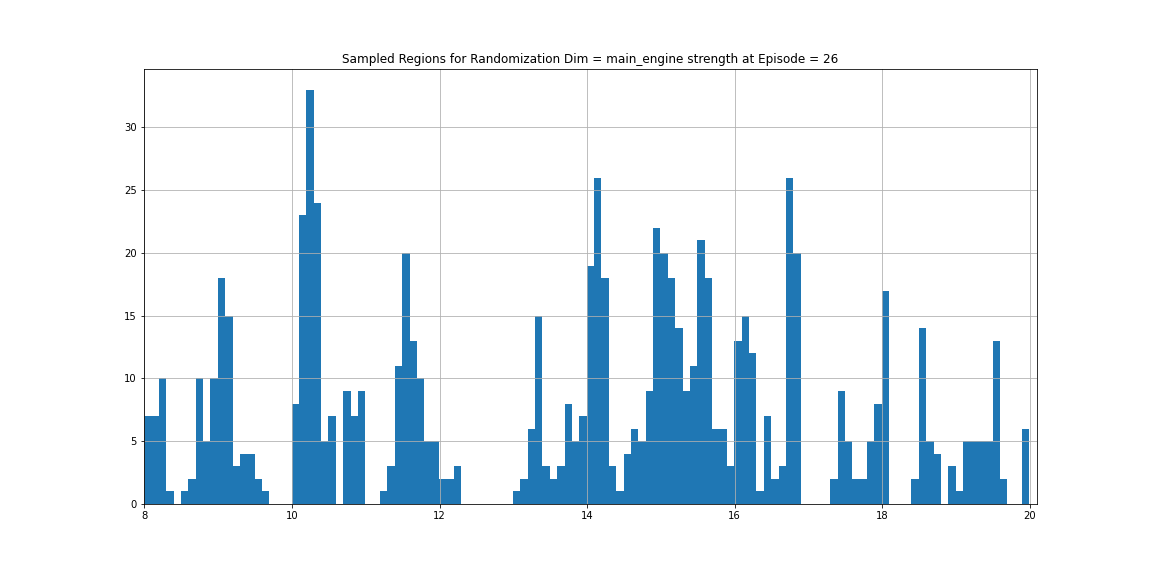
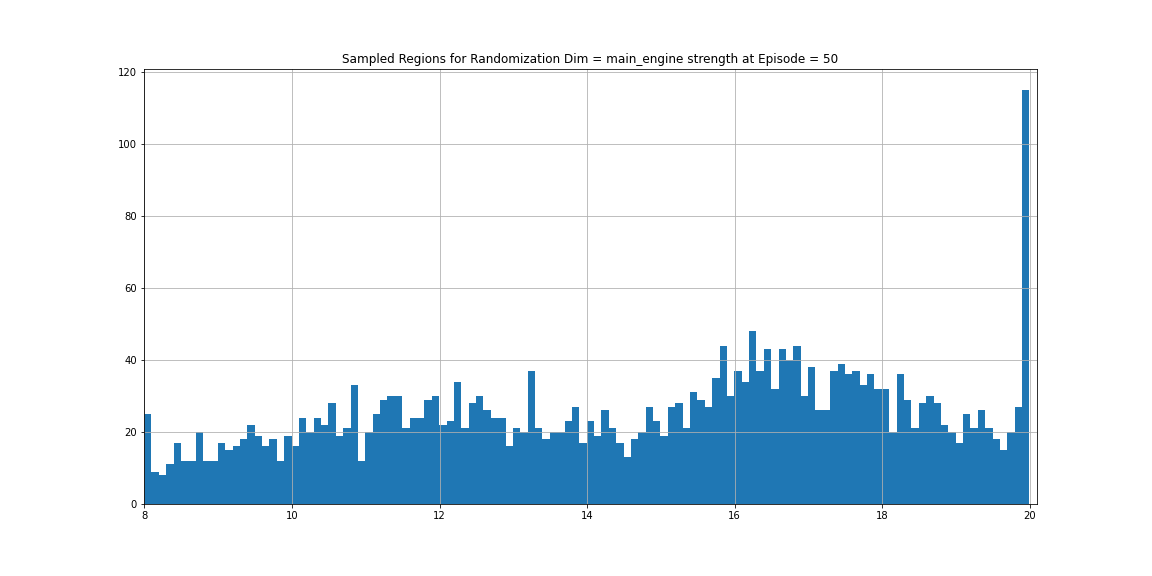
update svpg plots

Changed region(s): [[0.125, 0.1562, 0.9062, 0.875], [0.0938, 0.2188, 0.125, 0.25]]

diff --git a/code/algorithms/svpg/ddpg_dr.py b/code/algorithms/svpg/ddpg_dr.py
@@ -190,10 +190,12 @@ class DDPG(object):
             #step
             next_params = current_sim_params + action
             if xp_type=="peak":
-                reward = 1. if next_params <= 0.6 and next_params >= 0.4 else -10. #1./(np.abs(0.5-next_params)+1e-8)
+                reward = 1. if next_params <= 0.6 and next_params >= 0.4 else -10.
+                # reward = 1./(np.abs(0.5-next_params)+1e-8)
             elif xp_type=="valley":
                 reward = -10. if next_params <= 0.6 and next_params >= 0.4 else 1.
-            done=True if next_params < 0 or next_params > 1 else False
+                # reward = -1./(np.abs(0.5-next_params)+1e-8)
+            done=True if next_params < 0. or next_params > 1. else False
             # next_params = np.clip(next_params,0,1)
             done_bool = 0 if self.timesteps + 1 == self.H_svpg else float(done)
             
@@ -259,11 +261,11 @@ if __name__ == '__main__':
     
     lr_svpg=0.003 #0.0003
     gamma_svpg=0.99
-    h1=100 #100 #hidden sizes
-    h2=64
-    T_svpg=10 #50 #ddpg rollout length
-    delta_max = 0.005 #0.05 #maximum allowable change to svpg states (i.e. upper bound on the svpg action)
-    H_svpg = 25 #50 #ddpg rollout horizon
+    h1=32 #100 #100 #hidden sizes
+    h2=32 #64
+    T_svpg=20 #10 #50 #ddpg rollout length
+    delta_max = 0.05 #0.005 #0.05 #maximum allowable change to svpg states (i.e. upper bound on the svpg action)
+    H_svpg = 100 #25 #50 #ddpg rollout horizon
     batch_size=100 #for batch used for ddpg training 
     epochs=50
     xp_types=["peak","valley"] #experiment types
@@ -287,7 +289,7 @@ if __name__ == '__main__':
     plot_tr_rewards_mean=[]
     sampled_regions = [[] for _ in range(dr)]
     rand_step=0.1 #for discretizing the sampled regions plot
-    common_name="_svpg_dr"
+    common_name="_ddpg_dr"
     t_eps=0
     
     with tqdm.tqdm(total=T_eps) as pbar:
@@ -301,8 +303,10 @@ if __name__ == '__main__':
             rewards = np.ones_like(simulation_instances_mask,dtype=np.float32)
             if xp_type =="peak":
                 rewards[((simulation_instances_mask<=0.40).astype(int) + (simulation_instances_mask>=0.60).astype(int)).astype(bool)]=-10.
+                # rewards *= 1./(np.abs(0.5-simulation_instances_mask)+1e-8)
             elif xp_type=="valley":
                 rewards[((simulation_instances_mask>=0.40).astype(int) * (simulation_instances_mask<=0.60).astype(int)).astype(bool)]=-10.
+                # rewards *= - 1./(np.abs(0.5-simulation_instances_mask)+1e-8)
                 
             rewards = rewards * rewards_scale
                 
@@ -318,17 +322,30 @@ if __name__ == '__main__':
                 low=env.unwrapped.dimensions[dim].range_min
                 high=env.unwrapped.dimensions[dim].range_max
                 x=np.arange(low,high+rand_step,rand_step)
+                linspace_x=np.arange(min(x),max(x)+2*rand_step,rand_step)
                 
-                scaled_instances=low + (high-low) * simulation_instances[:,dim]
+                scaled_instances=low + (high-low) * simulation_instances[:, dim]
                 sampled_regions[dim]=np.concatenate([sampled_regions[dim],scaled_instances.flatten()])
                   
                 title=f"Sampled Regions for Randomization Dim = {dim_name} {env.rand} at Episode = {t_eps}"
                 plt.figure(figsize=(16,8))
                 plt.grid(1)
-                plt.hist(sampled_regions[dim], np.arange(min(x),max(x)+2*rand_step,rand_step), histtype='barstacked')
+                plt.hist(sampled_regions[dim], linspace_x, histtype='barstacked')
                 plt.xlim(min(x), max(x)+rand_step)
                 plt.title(title)
                 plt.savefig(f'plots/sampled_regions_dim_{dim_name}_{env.rand}{common_name}.png')
+                plt.close()
+                
+                title=f"Value Function for Randomization Dim = {dim_name} {env.rand} at Episode = {t_eps}"
+                plt.figure(figsize=(16,8))
+                plt.grid(1)
+                ls=np.linspace(0,1,len(linspace_x))
+                a=svpg.actor(torch.from_numpy(ls).unsqueeze(1).float().to(device))
+                v=svpg.critic(torch.from_numpy(ls).unsqueeze(1).float().to(device),a)
+                plt.plot(linspace_x,v.detach().cpu().numpy())
+                plt.xlim(min(x), max(x)+rand_step)
+                plt.title(title)
+                plt.savefig(f'plots/value_function_dim_{dim_name}_{env.rand}{common_name}.png')
                 plt.close()
             
             #log episode results

diff --git a/code/algorithms/svpg/svpg_dr.py b/code/algorithms/svpg/svpg_dr.py
@@ -119,7 +119,7 @@ class SVPGParticleActor(nn.Module):
         
         std=torch.exp(self.logstd) + 1e-6
                 
-        return torch.distributions.Independent(torch.distributions.Normal(mean,std),1) #torch.distributions.Normal(mean, std)
+        return torch.distributions.Normal(mean, std) #torch.distributions.Independent(torch.distributions.Normal(mean,std),1) #torch.distributions.Normal(mean, std)
 
 
 class SVPGParticle(nn.Module):
@@ -324,14 +324,14 @@ if __name__ == '__main__':
     temp=10. #temperature
     lr_svpg=0.003 #0.0003
     gamma_svpg=0.99
-    h_svpg=64 #100
+    h_svpg=32 #64 #100
     svpg_modes=[1,2,3] #how to calculate kernel gradient #1: original implementation; 2 & 3: other variants
     svpg_mode=svpg_modes[1]
     xp_types=["peak","valley"] #experiment types
     xp_type=xp_types[0]
-    T_svpg=10 #50 #svpg rollout length
-    delta_max = 0.005 #0.05 #maximum allowable change to svpg states (i.e. upper bound on the svpg action)
-    H_svpg = 50 #svpg horizon (how often the particles are reset)
+    T_svpg=20 #50 #svpg rollout length
+    delta_max = 0.05 #0.005 #0.05 #maximum allowable change to svpg states (i.e. upper bound on the svpg action)
+    H_svpg = 100 #svpg horizon (how often the particles are reset)
     rewards_scale=1.
     
     env_names=['halfcheetah_custom_norm-v1','halfcheetah_custom_rand-v1','lunarlander_custom_820_rand-v0','cartpole_custom-v1']
@@ -362,11 +362,13 @@ if __name__ == '__main__':
             
             #calculate deterministic reward
             simulation_instances_mask = np.concatenate([simulation_instances[:,1:,0],next_instances],1)
-            rewards = np.ones_like(simulation_instances_mask,dtype=np.float32) 
+            rewards = np.ones_like(simulation_instances_mask,dtype=np.float32)
             if xp_type =="peak":
                 rewards[((simulation_instances_mask<=0.40).astype(int) + (simulation_instances_mask>=0.60).astype(int)).astype(bool)]=-10.
+                # rewards *= 1./(np.abs(0.5-simulation_instances_mask)+1e-8)
             elif xp_type=="valley":
                 rewards[((simulation_instances_mask>=0.40).astype(int) * (simulation_instances_mask<=0.60).astype(int)).astype(bool)]=-10.
+                # rewards *= - 1./(np.abs(0.5-simulation_instances_mask)+1e-8)
             
             rewards = rewards * rewards_scale
             
@@ -382,6 +384,7 @@ if __name__ == '__main__':
                 low=env.unwrapped.dimensions[dim].range_min
                 high=env.unwrapped.dimensions[dim].range_max
                 x=np.arange(low,high+rand_step,rand_step)
+                linspace_x=np.arange(min(x),max(x)+2*rand_step,rand_step)
                 
                 scaled_instances=low + (high-low) * simulation_instances[:, :, dim]
                 sampled_regions[dim]=np.concatenate([sampled_regions[dim],scaled_instances.flatten()])
@@ -389,10 +392,22 @@ if __name__ == '__main__':
                 title=f"Sampled Regions for Randomization Dim = {dim_name} {env.rand} at Episode = {t_eps}"
                 plt.figure(figsize=(16,8))
                 plt.grid(1)
-                plt.hist(sampled_regions[dim], np.arange(min(x),max(x)+2*rand_step,rand_step), histtype='barstacked')
+                plt.hist(sampled_regions[dim], linspace_x, histtype='barstacked')
                 plt.xlim(min(x), max(x)+rand_step)
                 plt.title(title)
                 plt.savefig(f'plots/sampled_regions_dim_{dim_name}_{env.rand}{common_name}.png')
+                plt.close()
+                
+                title=f"Value Function for Randomization Dim = {dim_name} {env.rand} at Episode = {t_eps}"
+                plt.figure(figsize=(16,8))
+                plt.grid(1)
+                ls=np.linspace(0,1,len(linspace_x))
+                for i in range(n_particles):
+                    _,v=svpg.particles[i](torch.from_numpy(ls).unsqueeze(1).float().to(device))
+                    plt.plot(linspace_x,v.detach().cpu().numpy())
+                plt.xlim(min(x), max(x)+rand_step)
+                plt.title(title)
+                plt.savefig(f'plots/value_function_dim_{dim_name}_{env.rand}{common_name}.png')
                 plt.close()
             
             #log episode results
